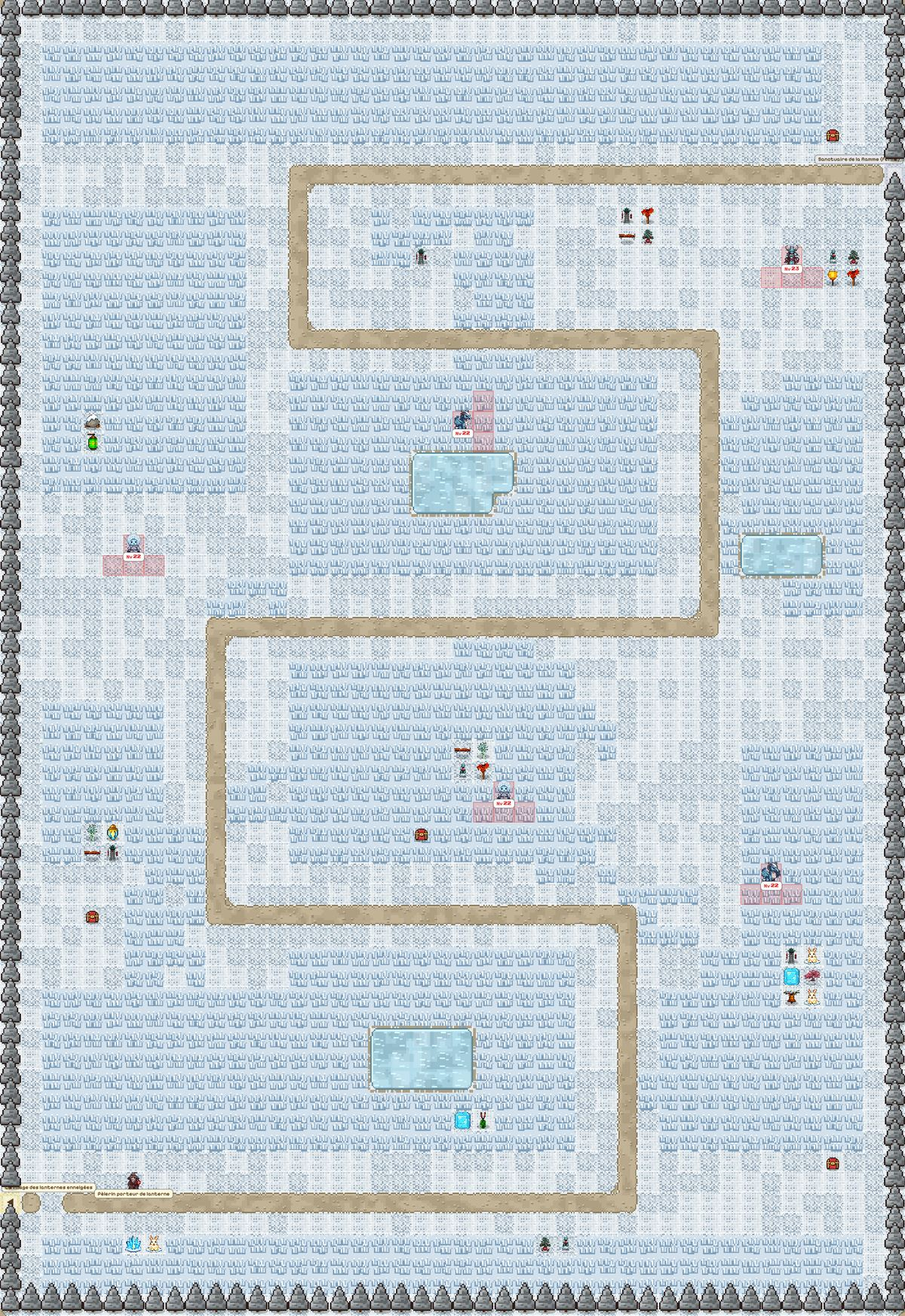
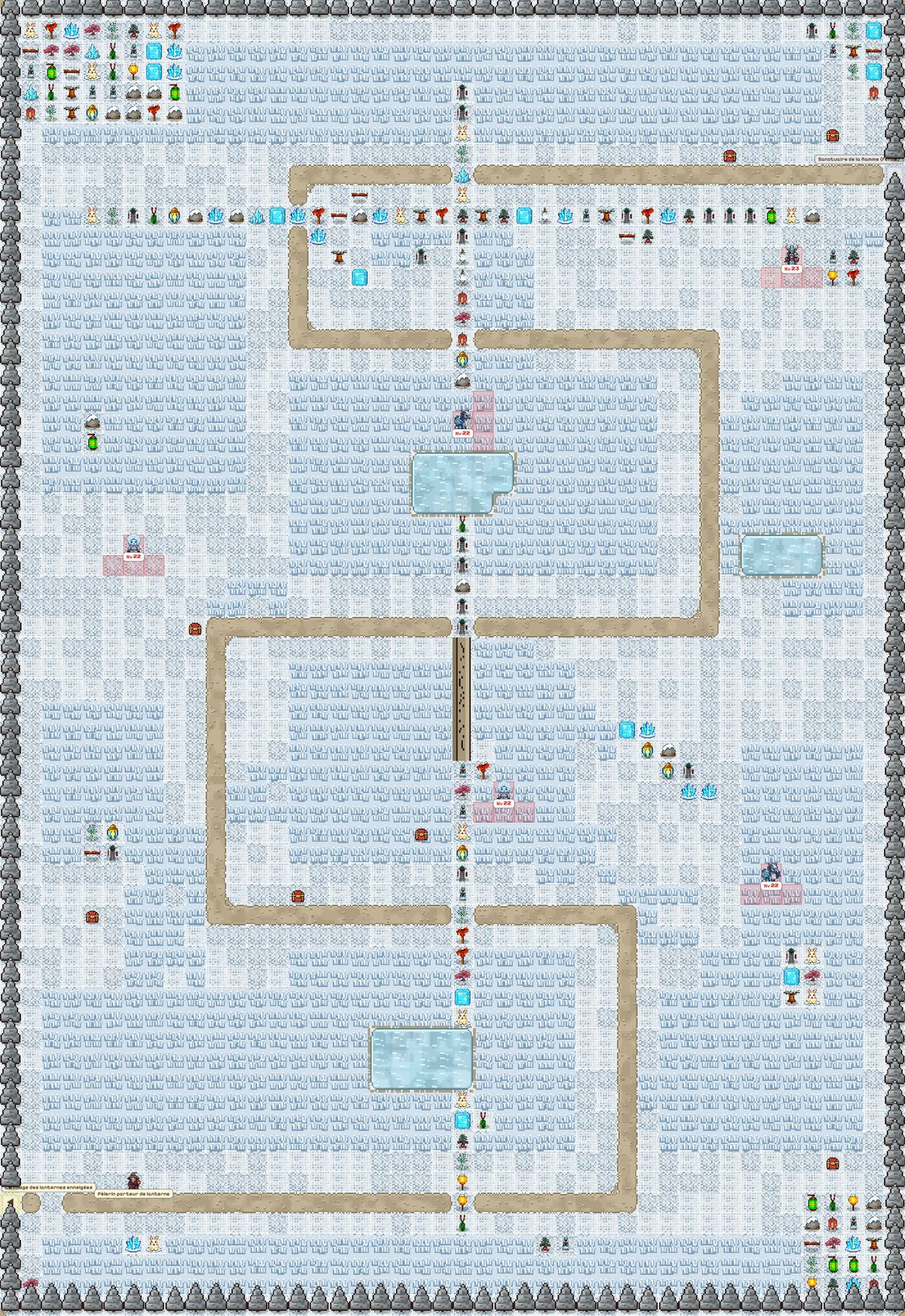
docs(match3-quest): régénérer les captures des cartes d'événement après le level design
Claude-Session: https://claude.ai/code/session_0145pwWhcPC3joXAjeQxEr8m

diff --git a/match3-quest/soluce/royaume-des-ames.html b/match3-quest/soluce/royaume-des-ames.html
@@ -110,34 +110,34 @@ footer{max-width:980px;margin:0 auto;padding:16px;font:.78rem system-ui,sans-ser
 <h3>Les six terrains</h3>
 <h4 id="ws_sources">La Route des Sources Jaunes <small>— 40×16 cases</small></h4>
 <p>Route de terre jaune de la tradition (黃泉路) bordée de fleurs rouges : deux rivières à franchir par des ponts, et des hautes herbes où rôdent des feux follets (combats aléatoires).</p>
-<dl><dt>Accès</dt><dd>depuis « Le Royaume des âmes errantes »</dd><dt>Personnages</dt><dd>Passeur des sources, Cueilleuse de higan</dd><dt>Coffres</dt><dd>Panier de pétales, Offrande de la rive</dd><dt>Ennemis</dt><dd>Noyé de la rivière jaune, Feu follet, Fantôme des arbres morts</dd></dl>
+<dl><dt>Accès</dt><dd>depuis « Le Royaume des âmes errantes »</dd><dt>Personnages</dt><dd>Passeur des sources, Cueilleuse de higan</dd><dt>Coffres</dt><dd>Panier de pétales, Offrande de la rive, Coffre suspect, Coffre suspect, Coffre suspect, Cache oubliée, Cache oubliée, Cache oubliée, Cache oubliée, Cache oubliée, Cache oubliée, Cache oubliée, Cache oubliée</dd><dt>Ennemis</dt><dd>Noyé de la rivière jaune, Feu follet, Fantôme des arbres morts</dd></dl>
 
-<figure class="shot"><div class="shotbox" title="Cliquer pour agrandir" style="max-width:1200px"><img src="img/ws_sources.jpg" width="1760" height="704" loading="lazy" alt="Carte : La Route des Sources Jaunes"><span class="ring chest" style="left:31.25%;top:84.38%;width:4.50%;height:11.25%"><i>1</i></span><span class="ring chest" style="left:91.25%;top:15.63%;width:4.50%;height:11.25%"><i>2</i></span><span class="ring target" style="left:51.25%;top:40.63%;width:4.50%;height:11.25%"><i>3</i></span><span class="ring target" style="left:21.25%;top:65.63%;width:4.50%;height:11.25%"><i>4</i></span></div><figcaption>La Route des Sources Jaunes : <b>1</b> Panier de pétales (coffre) · <b>2</b> Offrande de la rive (coffre) · <b>3</b> Passeur des sources (objectif) · <b>4</b> Cueilleuse de higan (objectif) <small>(cliquer pour agrandir)</small></figcaption></figure>
+<figure class="shot"><div class="shotbox" title="Cliquer pour agrandir" style="max-width:1200px"><img src="img/ws_sources.jpg" width="1760" height="704" loading="lazy" alt="Carte : La Route des Sources Jaunes"><span class="ring chest" style="left:31.25%;top:84.38%;width:4.50%;height:11.25%"><i>1</i></span><span class="ring chest" style="left:91.25%;top:15.63%;width:4.50%;height:11.25%"><i>2</i></span><span class="ring chest" style="left:78.75%;top:65.63%;width:4.50%;height:11.25%"><i>3</i></span><span class="ring chest" style="left:53.75%;top:65.63%;width:4.50%;height:11.25%"><i>4</i></span><span class="ring chest" style="left:33.75%;top:71.88%;width:4.50%;height:11.25%"><i>5</i></span><span class="ring chest" style="left:66.25%;top:28.13%;width:4.50%;height:11.25%"><i>6</i></span><span class="ring chest" style="left:21.25%;top:40.63%;width:4.50%;height:11.25%"><i>7</i></span><span class="ring chest" style="left:83.75%;top:46.88%;width:4.50%;height:11.25%"><i>8</i></span><span class="ring chest" style="left:26.25%;top:59.38%;width:4.50%;height:11.25%"><i>9</i></span><span class="ring chest" style="left:66.25%;top:71.88%;width:4.50%;height:11.25%"><i>10</i></span><span class="ring chest" style="left:58.75%;top:46.88%;width:4.50%;height:11.25%"><i>11</i></span><span class="ring chest" style="left:46.25%;top:71.88%;width:4.50%;height:11.25%"><i>12</i></span><span class="ring chest" style="left:83.75%;top:65.63%;width:4.50%;height:11.25%"><i>13</i></span><span class="ring target" style="left:51.25%;top:40.63%;width:4.50%;height:11.25%"><i>14</i></span><span class="ring target" style="left:21.25%;top:65.63%;width:4.50%;height:11.25%"><i>15</i></span></div><figcaption>La Route des Sources Jaunes : <b>1</b> Panier de pétales (coffre) · <b>2</b> Offrande de la rive (coffre) · <b>3</b> Coffre suspect (coffre) · <b>4</b> Coffre suspect (coffre) · <b>5</b> Coffre suspect (coffre) · <b>6</b> Cache oubliée (coffre) · <b>7</b> Cache oubliée (coffre) · <b>8</b> Cache oubliée (coffre) · <b>9</b> Cache oubliée (coffre) · <b>10</b> Cache oubliée (coffre) · <b>11</b> Cache oubliée (coffre) · <b>12</b> Cache oubliée (coffre) · <b>13</b> Cache oubliée (coffre) · <b>14</b> Passeur des sources (objectif) · <b>15</b> Cueilleuse de higan (objectif) <small>(cliquer pour agrandir)</small></figcaption></figure>
 <h4 id="ws_terrasse">La Terrasse du Regard vers le pays <small>— 28×20 cases</small></h4>
 <p>Terrasse d'où les morts regardent leur pays (望鄉台) : trois mirages du pays natal que la cloche d'exorcisme dissipe, des fantômes pendus et vengeurs, et l'énigme des urnes qui garde le souvenir.</p>
-<dl><dt>Accès</dt><dd>depuis « La Route des Sources Jaunes »</dd><dt>Personnages</dt><dd>Âme nostalgique</dd><dt>Coffres</dt><dd>Coffret des souvenirs, Lanterne de la terrasse</dd><dt>Ennemis</dt><dd>Ombre du pays natal, Veilleuse du pays, Pendu de la terrasse</dd></dl>
+<dl><dt>Accès</dt><dd>depuis « La Route des Sources Jaunes »</dd><dt>Personnages</dt><dd>Âme nostalgique</dd><dt>Coffres</dt><dd>Coffret des souvenirs, Lanterne de la terrasse, Coffre suspect, Coffre suspect, Coffre suspect, Cache oubliée, Cache oubliée, Cache oubliée, Cache oubliée, Cache oubliée, Cache oubliée, Cache oubliée, Cache oubliée</dd><dt>Ennemis</dt><dd>Ombre du pays natal, Veilleuse du pays, Pendu de la terrasse</dd></dl>
 
-<figure class="shot"><div class="shotbox" title="Cliquer pour agrandir" style="max-width:1200px"><img src="img/ws_terrasse.jpg" width="1232" height="880" loading="lazy" alt="Carte : La Terrasse du Regard vers le pays"><span class="ring chest" style="left:48.21%;top:87.50%;width:6.43%;height:9.00%"><i>1</i></span><span class="ring chest" style="left:87.50%;top:87.50%;width:6.43%;height:9.00%"><i>2</i></span><span class="ring target" style="left:48.21%;top:32.50%;width:6.43%;height:9.00%"><i>3</i></span></div><figcaption>La Terrasse du Regard vers le pays : <b>1</b> Coffret des souvenirs (coffre) · <b>2</b> Lanterne de la terrasse (coffre) · <b>3</b> Âme nostalgique (objectif) <small>(cliquer pour agrandir)</small></figcaption></figure>
+<figure class="shot"><div class="shotbox" title="Cliquer pour agrandir" style="max-width:1200px"><img src="img/ws_terrasse.jpg" width="1232" height="880" loading="lazy" alt="Carte : La Terrasse du Regard vers le pays"><span class="ring chest" style="left:48.21%;top:87.50%;width:6.43%;height:9.00%"><i>1</i></span><span class="ring chest" style="left:87.50%;top:87.50%;width:6.43%;height:9.00%"><i>2</i></span><span class="ring chest" style="left:41.07%;top:57.50%;width:6.43%;height:9.00%"><i>3</i></span><span class="ring chest" style="left:69.64%;top:57.50%;width:6.43%;height:9.00%"><i>4</i></span><span class="ring chest" style="left:30.36%;top:22.50%;width:6.43%;height:9.00%"><i>5</i></span><span class="ring chest" style="left:69.64%;top:22.50%;width:6.43%;height:9.00%"><i>6</i></span><span class="ring chest" style="left:76.79%;top:72.50%;width:6.43%;height:9.00%"><i>7</i></span><span class="ring chest" style="left:26.79%;top:67.50%;width:6.43%;height:9.00%"><i>8</i></span><span class="ring chest" style="left:83.93%;top:57.50%;width:6.43%;height:9.00%"><i>9</i></span><span class="ring chest" style="left:41.07%;top:77.50%;width:6.43%;height:9.00%"><i>10</i></span><span class="ring chest" style="left:33.93%;top:47.50%;width:6.43%;height:9.00%"><i>11</i></span><span class="ring chest" style="left:62.50%;top:72.50%;width:6.43%;height:9.00%"><i>12</i></span><span class="ring chest" style="left:83.93%;top:22.50%;width:6.43%;height:9.00%"><i>13</i></span><span class="ring target" style="left:48.21%;top:32.50%;width:6.43%;height:9.00%"><i>14</i></span></div><figcaption>La Terrasse du Regard vers le pays : <b>1</b> Coffret des souvenirs (coffre) · <b>2</b> Lanterne de la terrasse (coffre) · <b>3</b> Coffre suspect (coffre) · <b>4</b> Coffre suspect (coffre) · <b>5</b> Coffre suspect (coffre) · <b>6</b> Cache oubliée (coffre) · <b>7</b> Cache oubliée (coffre) · <b>8</b> Cache oubliée (coffre) · <b>9</b> Cache oubliée (coffre) · <b>10</b> Cache oubliée (coffre) · <b>11</b> Cache oubliée (coffre) · <b>12</b> Cache oubliée (coffre) · <b>13</b> Cache oubliée (coffre) · <b>14</b> Âme nostalgique (objectif) <small>(cliquer pour agrandir)</small></figcaption></figure>
 <h4 id="ws_pont">Le Pont Naihe <small>— 44×12 cases</small></h4>
 <p>Pont Naihe (奈何橋) : un pont étroit gardé par des soldats gui, des noyés sur les rives, et Meng Po (孟婆), dont la soupe d'oubli donne son nom au lieu. La porte de la Roue ne s'ouvre qu'après avoir pris son bol (sans le boire).</p>
-<dl><dt>Accès</dt><dd>depuis « La Terrasse du Regard vers le pays »</dd><dt>Personnages</dt><dd>Meng Po</dd><dt>Coffres</dt><dd>Bol de Meng Po</dd><dt>Ennemis</dt><dd>Garde du pont, Noyé de la rive</dd></dl>
+<dl><dt>Accès</dt><dd>depuis « La Terrasse du Regard vers le pays »</dd><dt>Personnages</dt><dd>Meng Po</dd><dt>Coffres</dt><dd>Bol de Meng Po, Coffre suspect, Coffre suspect, Coffre suspect, Cache oubliée, Cache oubliée, Cache oubliée, Cache oubliée, Cache oubliée, Cache oubliée</dd><dt>Ennemis</dt><dd>Garde du pont, Noyé de la rive</dd></dl>
 <ul><li>Porte vers « Roue des six voies » : Meng Po garde la fin du pont : acceptez son bol de soupe (sans le boire) avant de continuer vers la Roue.</li></ul>
-<figure class="shot"><div class="shotbox" title="Cliquer pour agrandir" style="max-width:1200px"><img src="img/ws_pont.jpg" width="1936" height="528" loading="lazy" alt="Carte : Le Pont Naihe"><span class="ring chest" style="left:92.05%;top:37.50%;width:4.09%;height:15.00%"><i>1</i></span><span class="ring target" style="left:85.23%;top:45.83%;width:4.09%;height:15.00%"><i>2</i></span></div><figcaption>Le Pont Naihe : <b>1</b> Bol de Meng Po (coffre) · <b>2</b> Meng Po (objectif) <small>(cliquer pour agrandir)</small></figcaption></figure>
+<figure class="shot"><div class="shotbox" title="Cliquer pour agrandir" style="max-width:1200px"><img src="img/ws_pont.jpg" width="1936" height="528" loading="lazy" alt="Carte : Le Pont Naihe"><span class="ring chest" style="left:92.05%;top:37.50%;width:4.09%;height:15.00%"><i>1</i></span><span class="ring chest" style="left:80.68%;top:62.50%;width:4.09%;height:15.00%"><i>2</i></span><span class="ring chest" style="left:89.77%;top:54.17%;width:4.09%;height:15.00%"><i>3</i></span><span class="ring chest" style="left:94.32%;top:20.83%;width:4.09%;height:15.00%"><i>4</i></span><span class="ring chest" style="left:80.68%;top:79.17%;width:4.09%;height:15.00%"><i>5</i></span><span class="ring chest" style="left:80.68%;top:20.83%;width:4.09%;height:15.00%"><i>6</i></span><span class="ring chest" style="left:85.23%;top:79.17%;width:4.09%;height:15.00%"><i>7</i></span><span class="ring chest" style="left:85.23%;top:20.83%;width:4.09%;height:15.00%"><i>8</i></span><span class="ring chest" style="left:14.77%;top:54.17%;width:4.09%;height:15.00%"><i>9</i></span><span class="ring chest" style="left:19.32%;top:54.17%;width:4.09%;height:15.00%"><i>10</i></span><span class="ring target" style="left:85.23%;top:45.83%;width:4.09%;height:15.00%"><i>11</i></span></div><figcaption>Le Pont Naihe : <b>1</b> Bol de Meng Po (coffre) · <b>2</b> Coffre suspect (coffre) · <b>3</b> Coffre suspect (coffre) · <b>4</b> Coffre suspect (coffre) · <b>5</b> Cache oubliée (coffre) · <b>6</b> Cache oubliée (coffre) · <b>7</b> Cache oubliée (coffre) · <b>8</b> Cache oubliée (coffre) · <b>9</b> Cache oubliée (coffre) · <b>10</b> Cache oubliée (coffre) · <b>11</b> Meng Po (objectif) <small>(cliquer pour agrandir)</small></figcaption></figure>
 <h4 id="ws_fengdu">Fengdu, la cité fantôme <small>— 36×22 cases</small></h4>
 <p>Fengdu (酆都), capitale des morts : un dédale de rues, le marché des fantômes (鬼市) et les messagers Bai et Hei Wuchang qui gardent le tribunal. La porte du Miroir ne s'ouvre qu'après les avoir vaincus tous les deux.</p>
-<dl><dt>Accès</dt><dd>depuis « Le Royaume des âmes errantes »</dd><dt>Personnages</dt><dd>Marchande de papier, Veilleur de nuit, Âme au marché</dd><dt>Coffres</dt><dd>Étal abandonné, Caisse du marchand, Cachette sous l'escalier</dd><dt>Ennemis</dt><dd>Bai Wuchang, Hei Wuchang, Sauteur de la ville, Faux étal, Fantôme aux cheveux défaits — boss : Bai Wuchang, Hei Wuchang</dd></dl>
+<dl><dt>Accès</dt><dd>depuis « Le Royaume des âmes errantes »</dd><dt>Personnages</dt><dd>Marchande de papier, Veilleur de nuit, Âme au marché</dd><dt>Coffres</dt><dd>Étal abandonné, Caisse du marchand, Cachette sous l'escalier, Coffre suspect, Coffre suspect, Coffre suspect, Cache oubliée, Cache oubliée, Cache oubliée, Cache oubliée, Cache oubliée, Cache oubliée, Cache oubliée, Cache oubliée</dd><dt>Ennemis</dt><dd>Bai Wuchang, Hei Wuchang, Sauteur de la ville, Faux étal, Fantôme aux cheveux défaits — boss : Bai Wuchang, Hei Wuchang</dd></dl>
 <ul><li>Porte vers « Miroir du Karma » : Les messagers Bai et Hei Wuchang gardent la porte du tribunal : il faut les vaincre pour passer.</li></ul>
-<figure class="shot"><div class="shotbox" title="Cliquer pour agrandir" style="max-width:1200px"><img src="img/ws_fengdu.jpg" width="1584" height="968" loading="lazy" alt="Carte : Fengdu, la cité fantôme"><span class="ring chest" style="left:31.94%;top:65.91%;width:5.00%;height:8.18%"><i>1</i></span><span class="ring chest" style="left:68.06%;top:38.64%;width:5.00%;height:8.18%"><i>2</i></span><span class="ring chest" style="left:6.94%;top:93.18%;width:5.00%;height:8.18%"><i>3</i></span><span class="ring target" style="left:37.50%;top:52.27%;width:5.00%;height:8.18%"><i>4</i></span><span class="ring target" style="left:51.39%;top:25.00%;width:5.00%;height:8.18%"><i>5</i></span><span class="ring target" style="left:65.28%;top:52.27%;width:5.00%;height:8.18%"><i>6</i></span><span class="ring target" style="left:93.06%;top:47.73%;width:5.00%;height:8.18%"><i>7</i></span><span class="ring target" style="left:93.06%;top:56.82%;width:5.00%;height:8.18%"><i>8</i></span></div><figcaption>Fengdu, la cité fantôme : <b>1</b> Étal abandonné (coffre) · <b>2</b> Caisse du marchand (coffre) · <b>3</b> Cachette sous l'escalier (coffre) · <b>4</b> Marchande de papier (objectif) · <b>5</b> Veilleur de nuit (objectif) · <b>6</b> Âme au marché (objectif) · <b>7</b> Bai Wuchang (objectif) · <b>8</b> Hei Wuchang (objectif) <small>(cliquer pour agrandir)</small></figcaption></figure>
+<figure class="shot"><div class="shotbox" title="Cliquer pour agrandir" style="max-width:1200px"><img src="img/ws_fengdu.jpg" width="1584" height="968" loading="lazy" alt="Carte : Fengdu, la cité fantôme"><span class="ring chest" style="left:31.94%;top:65.91%;width:5.00%;height:8.18%"><i>1</i></span><span class="ring chest" style="left:68.06%;top:38.64%;width:5.00%;height:8.18%"><i>2</i></span><span class="ring chest" style="left:6.94%;top:93.18%;width:5.00%;height:8.18%"><i>3</i></span><span class="ring chest" style="left:23.61%;top:56.82%;width:5.00%;height:8.18%"><i>4</i></span><span class="ring chest" style="left:76.39%;top:56.82%;width:5.00%;height:8.18%"><i>5</i></span><span class="ring chest" style="left:62.50%;top:70.45%;width:5.00%;height:8.18%"><i>6</i></span><span class="ring chest" style="left:62.50%;top:34.09%;width:5.00%;height:8.18%"><i>7</i></span><span class="ring chest" style="left:73.61%;top:20.45%;width:5.00%;height:8.18%"><i>8</i></span><span class="ring chest" style="left:18.06%;top:29.55%;width:5.00%;height:8.18%"><i>9</i></span><span class="ring chest" style="left:81.94%;top:70.45%;width:5.00%;height:8.18%"><i>10</i></span><span class="ring chest" style="left:18.06%;top:75.00%;width:5.00%;height:8.18%"><i>11</i></span><span class="ring chest" style="left:34.72%;top:75.00%;width:5.00%;height:8.18%"><i>12</i></span><span class="ring chest" style="left:31.94%;top:29.55%;width:5.00%;height:8.18%"><i>13</i></span><span class="ring chest" style="left:79.17%;top:34.09%;width:5.00%;height:8.18%"><i>14</i></span><span class="ring target" style="left:37.50%;top:52.27%;width:5.00%;height:8.18%"><i>15</i></span><span class="ring target" style="left:51.39%;top:25.00%;width:5.00%;height:8.18%"><i>16</i></span><span class="ring target" style="left:65.28%;top:52.27%;width:5.00%;height:8.18%"><i>17</i></span><span class="ring target" style="left:93.06%;top:47.73%;width:5.00%;height:8.18%"><i>18</i></span><span class="ring target" style="left:93.06%;top:56.82%;width:5.00%;height:8.18%"><i>19</i></span></div><figcaption>Fengdu, la cité fantôme : <b>1</b> Étal abandonné (coffre) · <b>2</b> Caisse du marchand (coffre) · <b>3</b> Cachette sous l'escalier (coffre) · <b>4</b> Coffre suspect (coffre) · <b>5</b> Coffre suspect (coffre) · <b>6</b> Coffre suspect (coffre) · <b>7</b> Cache oubliée (coffre) · <b>8</b> Cache oubliée (coffre) · <b>9</b> Cache oubliée (coffre) · <b>10</b> Cache oubliée (coffre) · <b>11</b> Cache oubliée (coffre) · <b>12</b> Cache oubliée (coffre) · <b>13</b> Cache oubliée (coffre) · <b>14</b> Cache oubliée (coffre) · <b>15</b> Marchande de papier (objectif) · <b>16</b> Veilleur de nuit (objectif) · <b>17</b> Âme au marché (objectif) · <b>18</b> Bai Wuchang (objectif) · <b>19</b> Hei Wuchang (objectif) <small>(cliquer pour agrandir)</small></figcaption></figure>
 <h4 id="ws_miroir">Le Miroir du Karma <small>— 26×16 cases</small></h4>
 <p>Miroir du Karma (孽鏡台) : le grand miroir montre les fautes des morts ; l'énigme des miroirs du reliquaire trouble le reflet du pécheur et lui retire un niveau.</p>
-<dl><dt>Accès</dt><dd>depuis « Fengdu, la cité fantôme (porte gardée) »</dd><dt>Personnages</dt><dd>Greffier du tribunal</dd><dt>Coffres</dt><dd>Reliquaire du miroir</dd><dt>Ennemis</dt><dd>Reflet du pécheur, Ombre du tribunal, Pendu du tribunal — boss : Reflet du pécheur</dd></dl>
+<dl><dt>Accès</dt><dd>depuis « Fengdu, la cité fantôme (porte gardée) »</dd><dt>Personnages</dt><dd>Greffier du tribunal</dd><dt>Coffres</dt><dd>Reliquaire du miroir, Coffre suspect, Coffre suspect, Coffre suspect, Cache oubliée, Cache oubliée, Cache oubliée, Cache oubliée, Cache oubliée, Cache oubliée, Cache oubliée, Cache oubliée</dd><dt>Ennemis</dt><dd>Reflet du pécheur, Ombre du tribunal, Pendu du tribunal — boss : Reflet du pécheur</dd></dl>
 
-<figure class="shot"><div class="shotbox" title="Cliquer pour agrandir" style="max-width:1144px"><img src="img/ws_miroir.jpg" width="1144" height="704" loading="lazy" alt="Carte : Le Miroir du Karma"><span class="ring chest" style="left:90.38%;top:21.88%;width:6.92%;height:11.25%"><i>1</i></span><span class="ring target" style="left:17.31%;top:28.13%;width:6.92%;height:11.25%"><i>2</i></span><span class="ring target" style="left:78.85%;top:53.13%;width:6.92%;height:11.25%"><i>3</i></span></div><figcaption>Le Miroir du Karma : <b>1</b> Reliquaire du miroir (coffre) · <b>2</b> Greffier du tribunal (objectif) · <b>3</b> Reflet du pécheur (objectif) <small>(cliquer pour agrandir)</small></figcaption></figure>
+<figure class="shot"><div class="shotbox" title="Cliquer pour agrandir" style="max-width:1144px"><img src="img/ws_miroir.jpg" width="1144" height="704" loading="lazy" alt="Carte : Le Miroir du Karma"><span class="ring chest" style="left:90.38%;top:21.88%;width:6.92%;height:11.25%"><i>1</i></span><span class="ring chest" style="left:63.46%;top:53.13%;width:6.92%;height:11.25%"><i>2</i></span><span class="ring chest" style="left:75.00%;top:28.13%;width:6.92%;height:11.25%"><i>3</i></span><span class="ring chest" style="left:40.38%;top:65.63%;width:6.92%;height:11.25%"><i>4</i></span><span class="ring chest" style="left:48.08%;top:34.38%;width:6.92%;height:11.25%"><i>5</i></span><span class="ring chest" style="left:82.69%;top:28.13%;width:6.92%;height:11.25%"><i>6</i></span><span class="ring chest" style="left:63.46%;top:28.13%;width:6.92%;height:11.25%"><i>7</i></span><span class="ring chest" style="left:48.08%;top:53.13%;width:6.92%;height:11.25%"><i>8</i></span><span class="ring chest" style="left:40.38%;top:53.13%;width:6.92%;height:11.25%"><i>9</i></span><span class="ring chest" style="left:13.46%;top:78.13%;width:6.92%;height:11.25%"><i>10</i></span><span class="ring chest" style="left:75.00%;top:78.13%;width:6.92%;height:11.25%"><i>11</i></span><span class="ring chest" style="left:82.69%;top:78.13%;width:6.92%;height:11.25%"><i>12</i></span><span class="ring target" style="left:17.31%;top:28.13%;width:6.92%;height:11.25%"><i>13</i></span><span class="ring target" style="left:78.85%;top:53.13%;width:6.92%;height:11.25%"><i>14</i></span></div><figcaption>Le Miroir du Karma : <b>1</b> Reliquaire du miroir (coffre) · <b>2</b> Coffre suspect (coffre) · <b>3</b> Coffre suspect (coffre) · <b>4</b> Coffre suspect (coffre) · <b>5</b> Cache oubliée (coffre) · <b>6</b> Cache oubliée (coffre) · <b>7</b> Cache oubliée (coffre) · <b>8</b> Cache oubliée (coffre) · <b>9</b> Cache oubliée (coffre) · <b>10</b> Cache oubliée (coffre) · <b>11</b> Cache oubliée (coffre) · <b>12</b> Cache oubliée (coffre) · <b>13</b> Greffier du tribunal (objectif) · <b>14</b> Reflet du pécheur (objectif) <small>(cliquer pour agrandir)</small></figcaption></figure>
 <h4 id="ws_roue">La Roue des six voies <small>— 24×22 cases</small></h4>
 <p>Roue des six voies (六道輪迴) : fin du voyage, où le roi Yanluo (閻羅王) pèse les noms au pied de la roue, et où dort le trésor des six voies.</p>
-<dl><dt>Accès</dt><dd>depuis « Le Pont Naihe (porte gardée) »</dd><dt>Personnages</dt><dd>Gardien de la roue</dd><dt>Coffres</dt><dd>Trésor des six voies</dd><dt>Ennemis</dt><dd>Roi Yanluo, Messager de la roue — boss : Roi Yanluo</dd></dl>
+<dl><dt>Accès</dt><dd>depuis « Le Pont Naihe (porte gardée) »</dd><dt>Personnages</dt><dd>Gardien de la roue</dd><dt>Coffres</dt><dd>Trésor des six voies, Coffre suspect, Coffre suspect, Coffre suspect, Cache oubliée, Cache oubliée, Cache oubliée, Cache oubliée, Cache oubliée, Cache oubliée, Cache oubliée, Cache oubliée</dd><dt>Ennemis</dt><dd>Roi Yanluo, Messager de la roue — boss : Roi Yanluo</dd></dl>
 
-<figure class="shot"><div class="shotbox" title="Cliquer pour agrandir" style="max-width:1056px"><img src="img/ws_roue.jpg" width="1056" height="968" loading="lazy" alt="Carte : La Roue des six voies"><span class="ring chest" style="left:89.58%;top:52.27%;width:7.50%;height:8.18%"><i>1</i></span><span class="ring target" style="left:18.75%;top:47.73%;width:7.50%;height:8.18%"><i>2</i></span><span class="ring target" style="left:72.92%;top:52.27%;width:7.50%;height:8.18%"><i>3</i></span></div><figcaption>La Roue des six voies : <b>1</b> Trésor des six voies (coffre) · <b>2</b> Gardien de la roue (objectif) · <b>3</b> Roi Yanluo (objectif) <small>(cliquer pour agrandir)</small></figcaption></figure>
+<figure class="shot"><div class="shotbox" title="Cliquer pour agrandir" style="max-width:1056px"><img src="img/ws_roue.jpg" width="1056" height="968" loading="lazy" alt="Carte : La Roue des six voies"><span class="ring chest" style="left:89.58%;top:52.27%;width:7.50%;height:8.18%"><i>1</i></span><span class="ring chest" style="left:64.58%;top:25.00%;width:7.50%;height:8.18%"><i>2</i></span><span class="ring chest" style="left:35.42%;top:25.00%;width:7.50%;height:8.18%"><i>3</i></span><span class="ring chest" style="left:64.58%;top:75.00%;width:7.50%;height:8.18%"><i>4</i></span><span class="ring chest" style="left:27.08%;top:70.45%;width:7.50%;height:8.18%"><i>5</i></span><span class="ring chest" style="left:35.42%;top:79.55%;width:7.50%;height:8.18%"><i>6</i></span><span class="ring chest" style="left:68.75%;top:38.64%;width:7.50%;height:8.18%"><i>7</i></span><span class="ring chest" style="left:81.25%;top:79.55%;width:7.50%;height:8.18%"><i>8</i></span><span class="ring chest" style="left:18.75%;top:20.45%;width:7.50%;height:8.18%"><i>9</i></span><span class="ring chest" style="left:18.75%;top:79.55%;width:7.50%;height:8.18%"><i>10</i></span><span class="ring chest" style="left:27.08%;top:34.09%;width:7.50%;height:8.18%"><i>11</i></span><span class="ring chest" style="left:72.92%;top:79.55%;width:7.50%;height:8.18%"><i>12</i></span><span class="ring target" style="left:18.75%;top:47.73%;width:7.50%;height:8.18%"><i>13</i></span><span class="ring target" style="left:72.92%;top:52.27%;width:7.50%;height:8.18%"><i>14</i></span></div><figcaption>La Roue des six voies : <b>1</b> Trésor des six voies (coffre) · <b>2</b> Coffre suspect (coffre) · <b>3</b> Coffre suspect (coffre) · <b>4</b> Coffre suspect (coffre) · <b>5</b> Cache oubliée (coffre) · <b>6</b> Cache oubliée (coffre) · <b>7</b> Cache oubliée (coffre) · <b>8</b> Cache oubliée (coffre) · <b>9</b> Cache oubliée (coffre) · <b>10</b> Cache oubliée (coffre) · <b>11</b> Cache oubliée (coffre) · <b>12</b> Cache oubliée (coffre) · <b>13</b> Gardien de la roue (objectif) · <b>14</b> Roi Yanluo (objectif) <small>(cliquer pour agrandir)</small></figcaption></figure>
 
 <h3>Le Gardien du jugement</h3>
 <div class="box tip"><b class="t">Trois façons de l’affronter</b>

diff --git a/match3-quest/soluce/fete-des-lanternes.html b/match3-quest/soluce/fete-des-lanternes.html
@@ -106,13 +106,13 @@ footer{max-width:980px;margin:0 auto;padding:16px;font:.78rem system-ui,sans-ser
 
 <h3>Le col et le sanctuaire</h3>
 <h4 id="wlm_col">Le col des pins gelés <small>— 44×64 cases</small></h4>
-<dl><dt>Accès</dt><dd>depuis « Le Village des lanternes enneigées »</dd><dt>Coffres</dt><dd>Source chaude, Clochette de montagne, Cache des blocs de glace, Panier du pèlerin</dd><dt>Ennemis</dt><dd>Esprit du givre, Oiseau de givre, Gardien de glace</dd></dl>
+<dl><dt>Accès</dt><dd>depuis « Le Village des lanternes enneigées »</dd><dt>Coffres</dt><dd>Source chaude, Clochette de montagne, Cache des blocs de glace, Panier du pèlerin, Coffre suspect, Coffre suspect, Coffre suspect, Cache oubliée, Cache oubliée, Cache oubliée, Cache oubliée, Cache oubliée, Cache oubliée, Cache oubliée, Cache oubliée</dd><dt>Ennemis</dt><dd>Esprit du givre, Oiseau de givre, Gardien de glace</dd></dl>
 <ul><li>Porte vers « Sanctuaire de la flamme » : La porte du sanctuaire est prise dans une gangue de glace. Une source chaude fume peut-être quelque part dans le col : la glace fond près de la chaleur.</li></ul>
-<figure class="shot"><div class="shotbox" title="Cliquer pour agrandir" style="max-width:1200px"><img src="img/wlm_col.jpg" width="1936" height="2816" loading="lazy" alt="Carte : Le col des pins gelés"><span class="ring chest" style="left:92.05%;top:10.16%;width:4.09%;height:2.81%"><i>1</i></span><span class="ring chest" style="left:10.23%;top:69.53%;width:4.09%;height:2.81%"><i>2</i></span><span class="ring chest" style="left:46.59%;top:63.28%;width:4.09%;height:2.81%"><i>3</i></span><span class="ring chest" style="left:92.05%;top:88.28%;width:4.09%;height:2.81%"><i>4</i></span><span class="ring target" style="left:14.77%;top:89.84%;width:4.09%;height:2.81%"><i>5</i></span></div><figcaption>Le col des pins gelés : <b>1</b> Source chaude (coffre) · <b>2</b> Clochette de montagne (coffre) · <b>3</b> Cache des blocs de glace (coffre) · <b>4</b> Panier du pèlerin (coffre) · <b>5</b> Pèlerin porteur de lanterne (objectif) <small>(cliquer pour agrandir)</small></figcaption></figure>
+<figure class="shot"><div class="shotbox" title="Cliquer pour agrandir" style="max-width:1200px"><img src="img/wlm_col.jpg" width="1936" height="2816" loading="lazy" alt="Carte : Le col des pins gelés"><span class="ring chest" style="left:92.05%;top:10.16%;width:4.09%;height:2.81%"><i>1</i></span><span class="ring chest" style="left:10.23%;top:69.53%;width:4.09%;height:2.81%"><i>2</i></span><span class="ring chest" style="left:46.59%;top:63.28%;width:4.09%;height:2.81%"><i>3</i></span><span class="ring chest" style="left:92.05%;top:88.28%;width:4.09%;height:2.81%"><i>4</i></span><span class="ring chest" style="left:21.59%;top:47.66%;width:4.09%;height:2.81%"><i>5</i></span><span class="ring chest" style="left:32.95%;top:67.97%;width:4.09%;height:2.81%"><i>6</i></span><span class="ring chest" style="left:80.68%;top:11.72%;width:4.09%;height:2.81%"><i>7</i></span><span class="ring chest" style="left:48.86%;top:19.53%;width:4.09%;height:2.81%"><i>8</i></span><span class="ring chest" style="left:78.41%;top:58.59%;width:4.09%;height:2.81%"><i>9</i></span><span class="ring chest" style="left:37.50%;top:14.84%;width:4.09%;height:2.81%"><i>10</i></span><span class="ring chest" style="left:67.05%;top:17.97%;width:4.09%;height:2.81%"><i>11</i></span><span class="ring chest" style="left:53.41%;top:44.53%;width:4.09%;height:2.81%"><i>12</i></span><span class="ring chest" style="left:53.41%;top:71.09%;width:4.09%;height:2.81%"><i>13</i></span><span class="ring chest" style="left:14.77%;top:14.84%;width:4.09%;height:2.81%"><i>14</i></span><span class="ring chest" style="left:53.41%;top:88.28%;width:4.09%;height:2.81%"><i>15</i></span><span class="ring target" style="left:14.77%;top:89.84%;width:4.09%;height:2.81%"><i>16</i></span></div><figcaption>Le col des pins gelés : <b>1</b> Source chaude (coffre) · <b>2</b> Clochette de montagne (coffre) · <b>3</b> Cache des blocs de glace (coffre) · <b>4</b> Panier du pèlerin (coffre) · <b>5</b> Coffre suspect (coffre) · <b>6</b> Coffre suspect (coffre) · <b>7</b> Coffre suspect (coffre) · <b>8</b> Cache oubliée (coffre) · <b>9</b> Cache oubliée (coffre) · <b>10</b> Cache oubliée (coffre) · <b>11</b> Cache oubliée (coffre) · <b>12</b> Cache oubliée (coffre) · <b>13</b> Cache oubliée (coffre) · <b>14</b> Cache oubliée (coffre) · <b>15</b> Cache oubliée (coffre) · <b>16</b> Pèlerin porteur de lanterne (objectif) <small>(cliquer pour agrandir)</small></figcaption></figure>
 <h4 id="wlm_sanctuaire">Le sanctuaire de la flamme <small>— 40×56 cases</small></h4>
-<dl><dt>Accès</dt><dd>depuis « Le col des pins gelés » (porte gelée)</dd><dt>Coffres</dt><dd>Niche du sanctuaire, Jade de l'hiver</dd><dt>Ennemis</dt><dd>Gardien de glace, Gardien de la flamme hivernale</dd></dl>
+<dl><dt>Accès</dt><dd>depuis « Le col des pins gelés » (porte gelée)</dd><dt>Coffres</dt><dd>Niche du sanctuaire, Jade de l'hiver, Coffre suspect, Coffre suspect, Coffre suspect, Cache oubliée, Cache oubliée, Cache oubliée, Cache oubliée, Cache oubliée, Cache oubliée, Cache oubliée, Cache oubliée</dd><dt>Ennemis</dt><dd>Gardien de glace, Gardien de la flamme hivernale</dd></dl>
 
-<figure class="shot"><div class="shotbox" title="Cliquer pour agrandir" style="max-width:1200px"><img src="img/wlm_sanctuaire.jpg" width="1760" height="2464" loading="lazy" alt="Carte : Le sanctuaire de la flamme"><span class="ring chest" style="left:11.25%;top:95.54%;width:4.50%;height:3.21%"><i>1</i></span><span class="ring chest" style="left:51.25%;top:9.82%;width:4.50%;height:3.21%"><i>2</i></span><span class="ring target" style="left:51.25%;top:18.75%;width:4.50%;height:3.21%"><i>3</i></span></div><figcaption>Le sanctuaire de la flamme : <b>1</b> Niche du sanctuaire (coffre) · <b>2</b> Jade de l'hiver (coffre) · <b>3</b> Gardien de la flamme hivernale (objectif) <small>(cliquer pour agrandir)</small></figcaption></figure>
+<figure class="shot"><div class="shotbox" title="Cliquer pour agrandir" style="max-width:1200px"><img src="img/wlm_sanctuaire.jpg" width="1760" height="2464" loading="lazy" alt="Carte : Le sanctuaire de la flamme"><span class="ring chest" style="left:11.25%;top:95.54%;width:4.50%;height:3.21%"><i>1</i></span><span class="ring chest" style="left:51.25%;top:9.82%;width:4.50%;height:3.21%"><i>2</i></span><span class="ring chest" style="left:48.75%;top:70.54%;width:4.50%;height:3.21%"><i>3</i></span><span class="ring chest" style="left:71.25%;top:20.54%;width:4.50%;height:3.21%"><i>4</i></span><span class="ring chest" style="left:28.75%;top:88.39%;width:4.50%;height:3.21%"><i>5</i></span><span class="ring chest" style="left:83.75%;top:36.61%;width:4.50%;height:3.21%"><i>6</i></span><span class="ring chest" style="left:73.75%;top:33.04%;width:4.50%;height:3.21%"><i>7</i></span><span class="ring chest" style="left:56.25%;top:90.18%;width:4.50%;height:3.21%"><i>8</i></span><span class="ring chest" style="left:83.75%;top:83.04%;width:4.50%;height:3.21%"><i>9</i></span><span class="ring chest" style="left:58.75%;top:65.18%;width:4.50%;height:3.21%"><i>10</i></span><span class="ring chest" style="left:33.75%;top:47.32%;width:4.50%;height:3.21%"><i>11</i></span><span class="ring chest" style="left:36.25%;top:86.61%;width:4.50%;height:3.21%"><i>12</i></span><span class="ring chest" style="left:56.25%;top:40.18%;width:4.50%;height:3.21%"><i>13</i></span><span class="ring target" style="left:51.25%;top:18.75%;width:4.50%;height:3.21%"><i>14</i></span></div><figcaption>Le sanctuaire de la flamme : <b>1</b> Niche du sanctuaire (coffre) · <b>2</b> Jade de l'hiver (coffre) · <b>3</b> Coffre suspect (coffre) · <b>4</b> Coffre suspect (coffre) · <b>5</b> Coffre suspect (coffre) · <b>6</b> Cache oubliée (coffre) · <b>7</b> Cache oubliée (coffre) · <b>8</b> Cache oubliée (coffre) · <b>9</b> Cache oubliée (coffre) · <b>10</b> Cache oubliée (coffre) · <b>11</b> Cache oubliée (coffre) · <b>12</b> Cache oubliée (coffre) · <b>13</b> Cache oubliée (coffre) · <b>14</b> Gardien de la flamme hivernale (objectif) <small>(cliquer pour agrandir)</small></figcaption></figure>
 
 <h3>Le Gardien de la flamme hivernale</h3>
 <div class="box tip"><b class="t">Trois façons de l’affaiblir</b>
